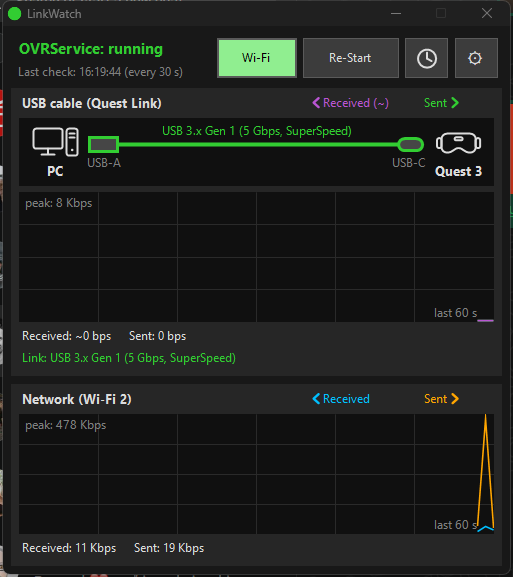
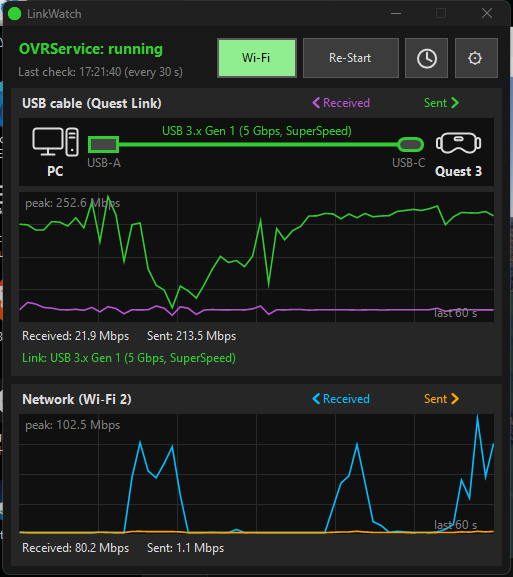
History: join minute samples into lines, hide startup-state markers, fit list; fresh screenshots from a live session

diff --git a/src/History.cs b/src/History.cs
@@ -107,6 +107,7 @@ public class HistoryForm : Form {
     DateTime from, to;
     List<MinuteRow> rows = new List<MinuteRow>(); List<EventRow> events = new List<EventRow>();
     EventRow selected; int hoverX = -1;
+    HashSet<DateTime> startTimes = new HashSet<DateTime>();   // seconds at which LinkWatch started
     const int PadL = 8, PadR = 8, PadT = 22, PadB = 22;
 
     public HistoryForm() {
@@ -156,15 +157,18 @@ public class HistoryForm : Form {
         list.SelectedIndexChanged += (s, e) => { selected = list.SelectedItems.Count > 0 ? (EventRow)list.SelectedItems[0].Tag : null; graph.Invalidate(); };
         Controls.Add(list);
         // last column fills the rest of the header, so no blank header strip is left
-        Resize += (s, e) => { list.Columns[1].Width = -2; };
-        Shown += (s, e) => { list.Columns[1].Width = -2; };
+        Action fit = () => { list.Columns[1].Width = Math.Max(200, list.ClientSize.Width - list.Columns[0].Width - 4); };
+        Resize += (s, e) => fit();
+        Shown += (s, e) => fit();
         Reload();
     }
 
+    public void SetRange(double hours) { range = TimeSpan.FromHours(hours); Reload(); }
     void Reload() {
         History.Flush();
         to = DateTime.Now; from = to - range;
         rows = History.Rates(from, to); events = History.Events(from, to);
+        startTimes = new HashSet<DateTime>(events.Where(e => e.Kind == "app").Select(e => e.T));
         foreach (var b in rangeButtons) { bool on = (double)b.Tag == range.TotalHours; b.BackColor = on ? Color.LightGreen : BtnOff; b.ForeColor = on ? Color.Black : Color.Gainsboro; }
         list.BeginUpdate(); list.Items.Clear();
         foreach (var ev in events.OrderByDescending(e => e.T)) {
@@ -219,22 +223,29 @@ public class HistoryForm : Form {
             using (var pen = new Pen(keys[k].Item2, k == 0 ? 1f : 1.6f)) {
                 var seg = new List<PointF>();
                 Action drawSeg = () => { if (seg.Count > 1) g.DrawLines(pen, seg.ToArray()); else if (seg.Count == 1) g.DrawRectangle(pen, seg[0].X, seg[0].Y, 1, 1); seg.Clear(); };
+                // one sample per minute can be many pixels apart (1 h view): join neighbours, and break the line only
+                // where more than ~2.5 minutes are missing (LinkWatch was not running)
+                int maxGap = Math.Max(2, (int)Math.Ceiling(2.5 * data[k].Length / range.TotalMinutes)), last = -1;
                 for (int i = 0; i < data[k].Length; i++) {
                     double v = data[k][i];
-                    if (double.IsNaN(v)) { drawSeg(); continue; }   // gap: monitor was not running
-                    seg.Add(new PointF(PadL + i, (float)(PadT + plotH - plotH * v / peak)));
+                    if (double.IsNaN(v)) continue;
+                    if (last >= 0 && i - last > maxGap) drawSeg();
+                    seg.Add(new PointF(PadL + i, (float)(PadT + plotH - plotH * v / peak))); last = i;
                 }
                 drawSeg();
             }
         }
         // event markers
         foreach (var ev in events) {
+            // start/close, and the "all fine" states recorded at each start, stay in the list; on the graph they would
+            // only clutter. Real changes (service down, unplugged, speed change, restart) are always drawn.
+            if (ev != selected && (ev.Kind == "app" || ((ev.Kind == "service-up" || ev.Kind == "usb-on") && startTimes.Contains(ev.T)))) continue;
             float x = X(ev.T, w);
             using (var p = new Pen(History.KindColor(ev.Kind), ev == selected ? 3f : 1f) { DashStyle = ev == selected ? DashStyle.Solid : DashStyle.Dot })
                 g.DrawLine(p, x, PadT, x, h - PadB);
         }
         if (hoverX >= PadL && hoverX <= w - PadR) using (var p = new Pen(Color.FromArgb(110, 110, 110))) g.DrawLine(p, hoverX, PadT, hoverX, h - PadB);
-        g.DrawString("peak: " + MainForm.Rate(peak) + "    green: sent to Quest (avg, light = 1 s peak)   purple: received from Quest (~)" + (chkWifi.Checked ? "   blue/orange: Wi-Fi" : ""),
+        g.DrawString("peak: " + MainForm.Rate(peak) + "    green: sent to Quest (avg, light = 1 s peak)   purple: received from Quest" + (chkWifi.Checked ? "   blue/orange: Wi-Fi" : ""),
             UiFont, Brushes.Gray, PadL, 3);
         if (rows.Count == 0) g.DrawString("No data recorded in this range yet.", UiFont, Brushes.Gray, w / 2 - 110, h / 2 - 8);
     }
@@ -245,7 +256,7 @@ public class HistoryForm : Form {
         var t = from + TimeSpan.FromSeconds((to - from).TotalSeconds * (hoverX - PadL) / (w - PadL - PadR));
         var r = rows.OrderBy(x => Math.Abs((x.T - t).TotalSeconds)).First();
         if (Math.Abs((r.T - t).TotalMinutes) > Math.Max(2, range.TotalMinutes / (w - PadL - PadR) * 2)) { hover.Text = t.ToString("dd MMM HH:mm") + "   no data"; return; }
-        hover.Text = r.T.ToString("dd MMM HH:mm") + "   sent " + MainForm.Rate(r.Out) + " (peak " + MainForm.Rate(r.OutPeak) + ")\r\nreceived ~" + MainForm.Rate(r.In) +
+        hover.Text = r.T.ToString("dd MMM HH:mm") + "   sent " + MainForm.Rate(r.Out) + " (peak " + MainForm.Rate(r.OutPeak) + ")\r\nreceived " + MainForm.Rate(r.In) +
             "   Wi-Fi " + MainForm.Rate(r.Rx) + " / " + MainForm.Rate(r.Tx);
     }
 }

diff --git a/src/LinkWatch.cs b/src/LinkWatch.cs
@@ -716,7 +716,12 @@ class MainForm : Form {
     }
     void TakeScreenshots() {
         ShowMain(); CaptureWindow(this, "LinkWatch_main.png");
-        ShowHistory(); CaptureWindow(historyForm, "LinkWatch_history.png");
+        ShowHistory(); historyForm.SetRange(1);
+        // keep the two windows apart so neither covers the other in the capture
+        var area = Screen.FromControl(this).WorkingArea;
+        int hx = Right + 16 + historyForm.Width <= area.Right ? Right + 16 : Math.Max(area.Left, Left - 16 - historyForm.Width);
+        historyForm.Location = new Point(hx, Math.Max(area.Top, Math.Min(Top, area.Bottom - historyForm.Height)));
+        CaptureWindow(historyForm, "LinkWatch_history.png");
         // settings is modal: capture and cancel it from a timer once it is on screen
         var t = new System.Windows.Forms.Timer { Interval = 900 };
         t.Tick += (s, e) => { t.Stop(); var d = Application.OpenForms.Cast<Form>().FirstOrDefault(f => f.Text == "Settings"); if (d != null) { CaptureWindow(d, "LinkWatch_settings.png"); d.DialogResult = DialogResult.Cancel; } };
